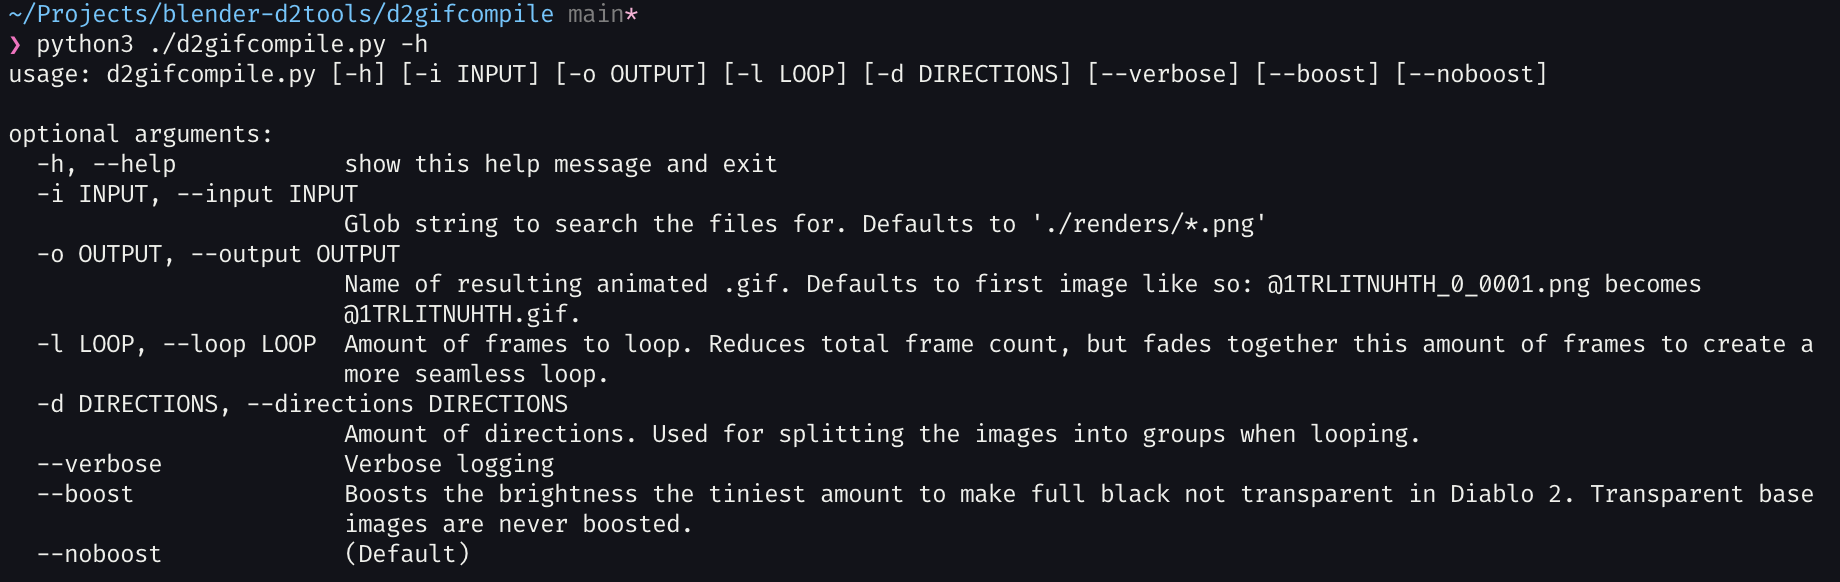
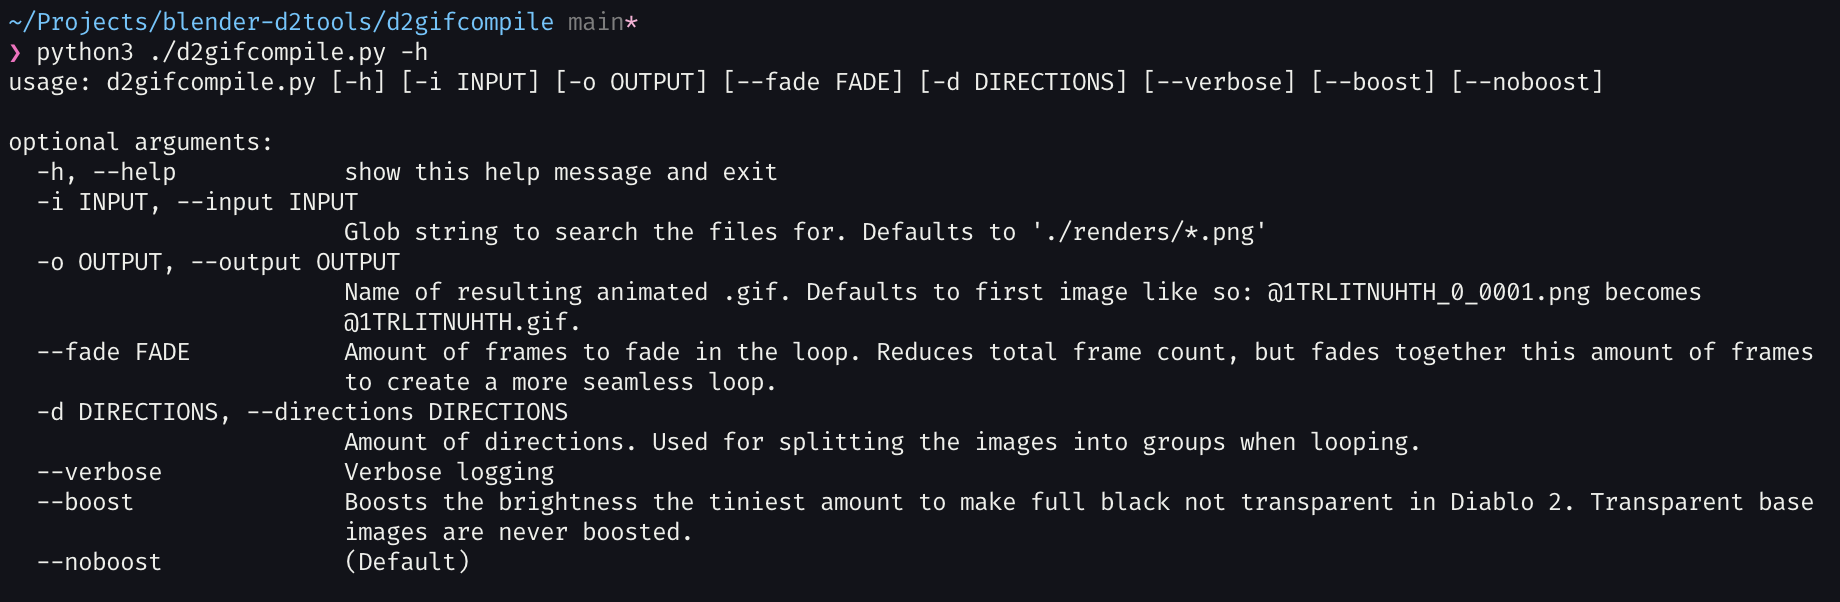
Rename loop to fade for clarity

diff --git a/d2gifcompile/d2gifcompile.py b/d2gifcompile/d2gifcompile.py
@@ -71,13 +71,13 @@ def fade_images(src_img, overlay_img, alpha):
 parser = argparse.ArgumentParser()
 parser.add_argument("-i", "--input", dest = "input", help = "Glob string to search the files for. Defaults to './renders/*.png'")
 parser.add_argument("-o", "--output", dest = "output", help = "Name of resulting animated .gif. Defaults to first image like so: @1TRLITNUHTH_0_0001.png becomes @1TRLITNUHTH.gif.")
-parser.add_argument("-l", "--loop", dest = "loop", type = int, help="Amount of frames to loop. Reduces total frame count, but fades together this amount of frames to create a more seamless loop.")
+parser.add_argument("--fade", dest = "fade", type = int, help="Amount of frames to fade in the loop. Reduces total frame count, but fades together this amount of frames to create a more seamless loop.")
 parser.add_argument("-d", "--directions", dest = "directions", type = int, help="Amount of directions. Used for splitting the images into groups when looping.")
 parser.add_argument("--verbose", dest = "verbose", action='store_true', help = "Verbose logging")
 parser.add_argument("--boost", dest = "boost_brightness", action='store_true', help = "Boosts the brightness the tiniest amount to make full black not transparent in Diablo 2. Transparent base images are never boosted.")
 parser.add_argument("--noboost", dest = "boost_brightness", action='store_false', help = "(Default)")
 parser.set_defaults(input = "./renders/*.png")
-parser.set_defaults(loop = 0)
+parser.set_defaults(fade = 0)
 parser.set_defaults(directions = 1)
 parser.set_defaults(boost_brightness = False)
 args = parser.parse_args()
@@ -92,7 +92,7 @@ if (len(image_paths) <= 0):
     quit()
 
 # Separate by direction
-loop_amount = args.loop
+loop_amount = args.fade
 loop_max = math.floor(len(image_paths) / 2)
 if (loop_amount > loop_max):
     loop_amount = loop_max
@@ -115,7 +115,7 @@ if ((len(image_paths) / args.directions) % 1 != 0):
 if (args.verbose):
     print("| Settings |")
     print(f"Boost image brightness: {args.boost_brightness}")
-    print(f"Looping frames: {args.loop}")
+    print(f"Looping frames: {loop_amount}")
     print(f"Directions: {args.directions}")
     print(f"Frames / direction: {amount_per_dir}")
 

diff --git a/d2gifcompile/README.md b/d2gifcompile/README.md
@@ -1,13 +1,14 @@
 # d2gifcompile_py
 
-Python script that takes renders from d2tools/blender-d2tools and compiles them into an animated .gif.
+Python script that takes images (like renders from [d2tools/blender-d2tools](https://github.com/iuitdebos/blender-d2tools/tree/main/blender-d2tools)) and compiles them into an animated .gif using the D2 units palette.
 
 Features:
-- No transparent pixels that should be black
-- Converts everything to D2 units palette.
-- Compiles into a single animated .gif ready to use in a .dcc
+- Take images, convert them into a .gif using the D2 units palette.
+- This .gif is ready to use in a .dcc.
+- Are your black pixels transparent in game? Run with --boost to fix!
+- Does your animation not loop well? Run with --fade and --directions to automatically fade that amount of frames in each direction.
 
-In Diablo 2, RGB(0, 0, 0) becomes transparent. To prevent this, this tool can boosts the overall brightness of an image with transparent background slightly to ensure any pure blacks will become the closest thing to black in the D2 color palette that is not transparent, RGB(4, 4, 4). If you don't want this, run with `--noboost`.
+In Diablo 2, RGB(0, 0, 0) becomes transparent. To prevent this, this tool can boosts the overall brightness of an image with transparent background slightly to ensure any pure blacks will become the closest thing to black in the D2 color palette that is not transparent, RGB(4, 4, 4).
 
 ![d2gifcompile.py example](https://github.com/iuitdebos/blender-d2tools/blob/main/images/d2gifcompile_verbose.png)
 
@@ -18,7 +19,10 @@ In Diablo 2, RGB(0, 0, 0) becomes transparent. To prevent this, this tool can bo
 3. Download this folder (./d2gifcompile) and enter it with your terminal of choice.
 4. Dump all your renders in the `./renders` folder
 5. Make sure they are alphabetically sorted
-6. Run: `python3 ./d2gifcompile.py` (or with `--noboost` for images that already have a black background)
+6. Run: `python3 ./d2gifcompile.py`.
 7. Output: `./<your-render>.gif`
+8. Does your .gif have missing pixels that should be black in-game? Run `python3 ./d2gifcompile.py --boost` to boost the brightness every so slightly. This should fix it.
+
+## Options
 
 ![d2gifcompile.py options](https://github.com/iuitdebos/blender-d2tools/blob/main/images/d2gifcompile_options.png)
